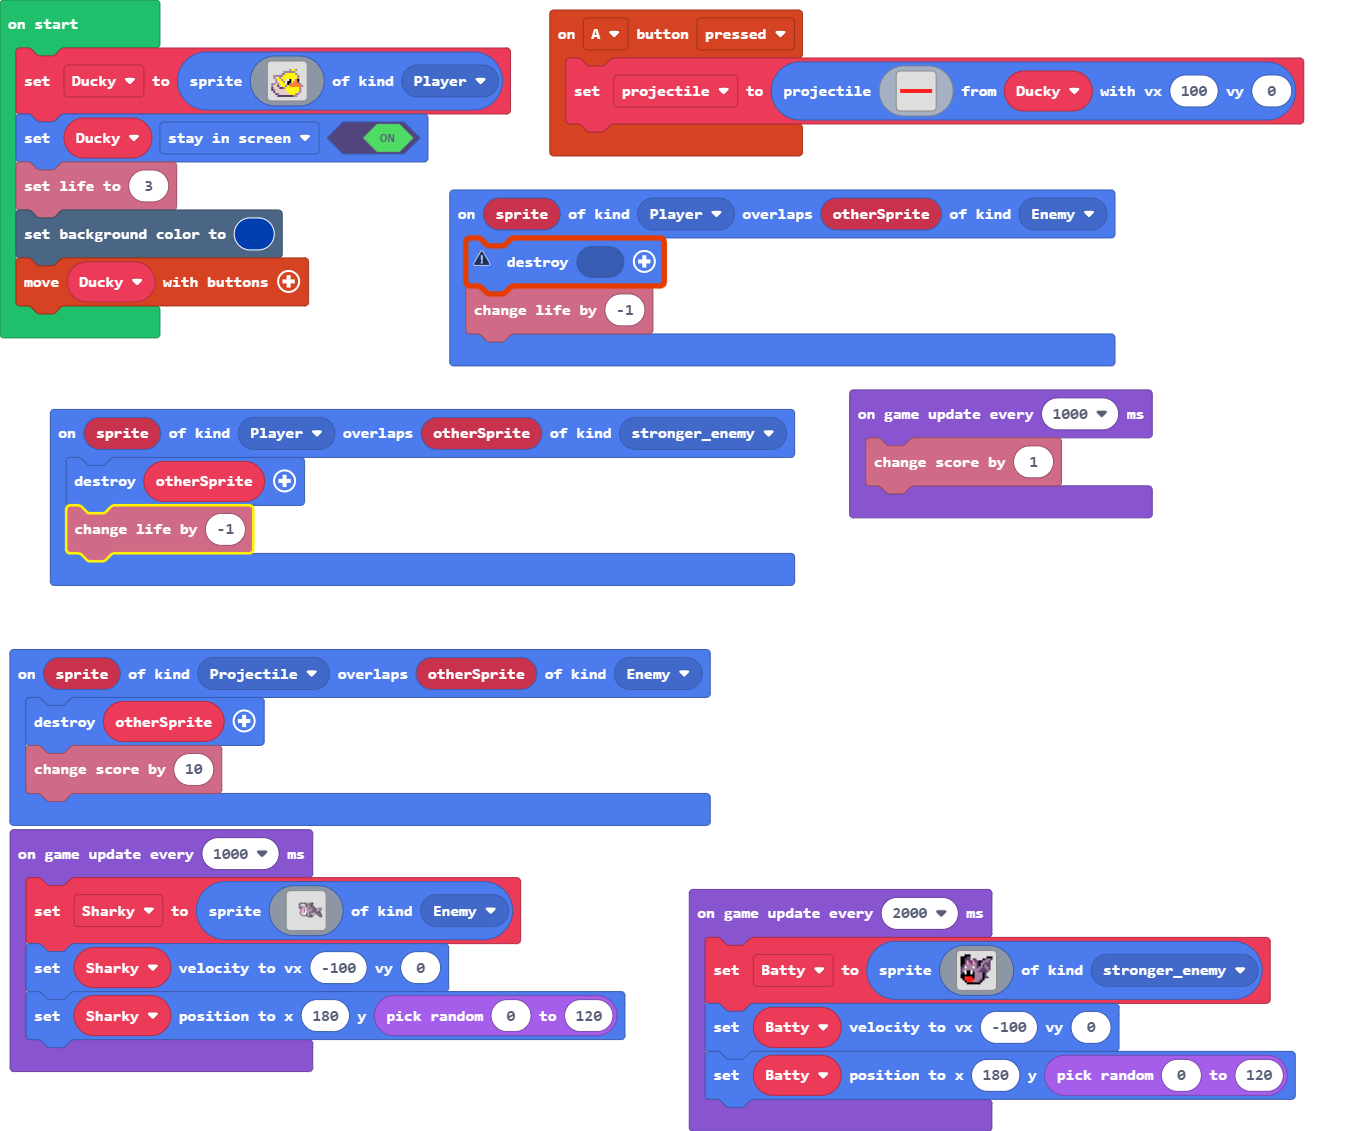
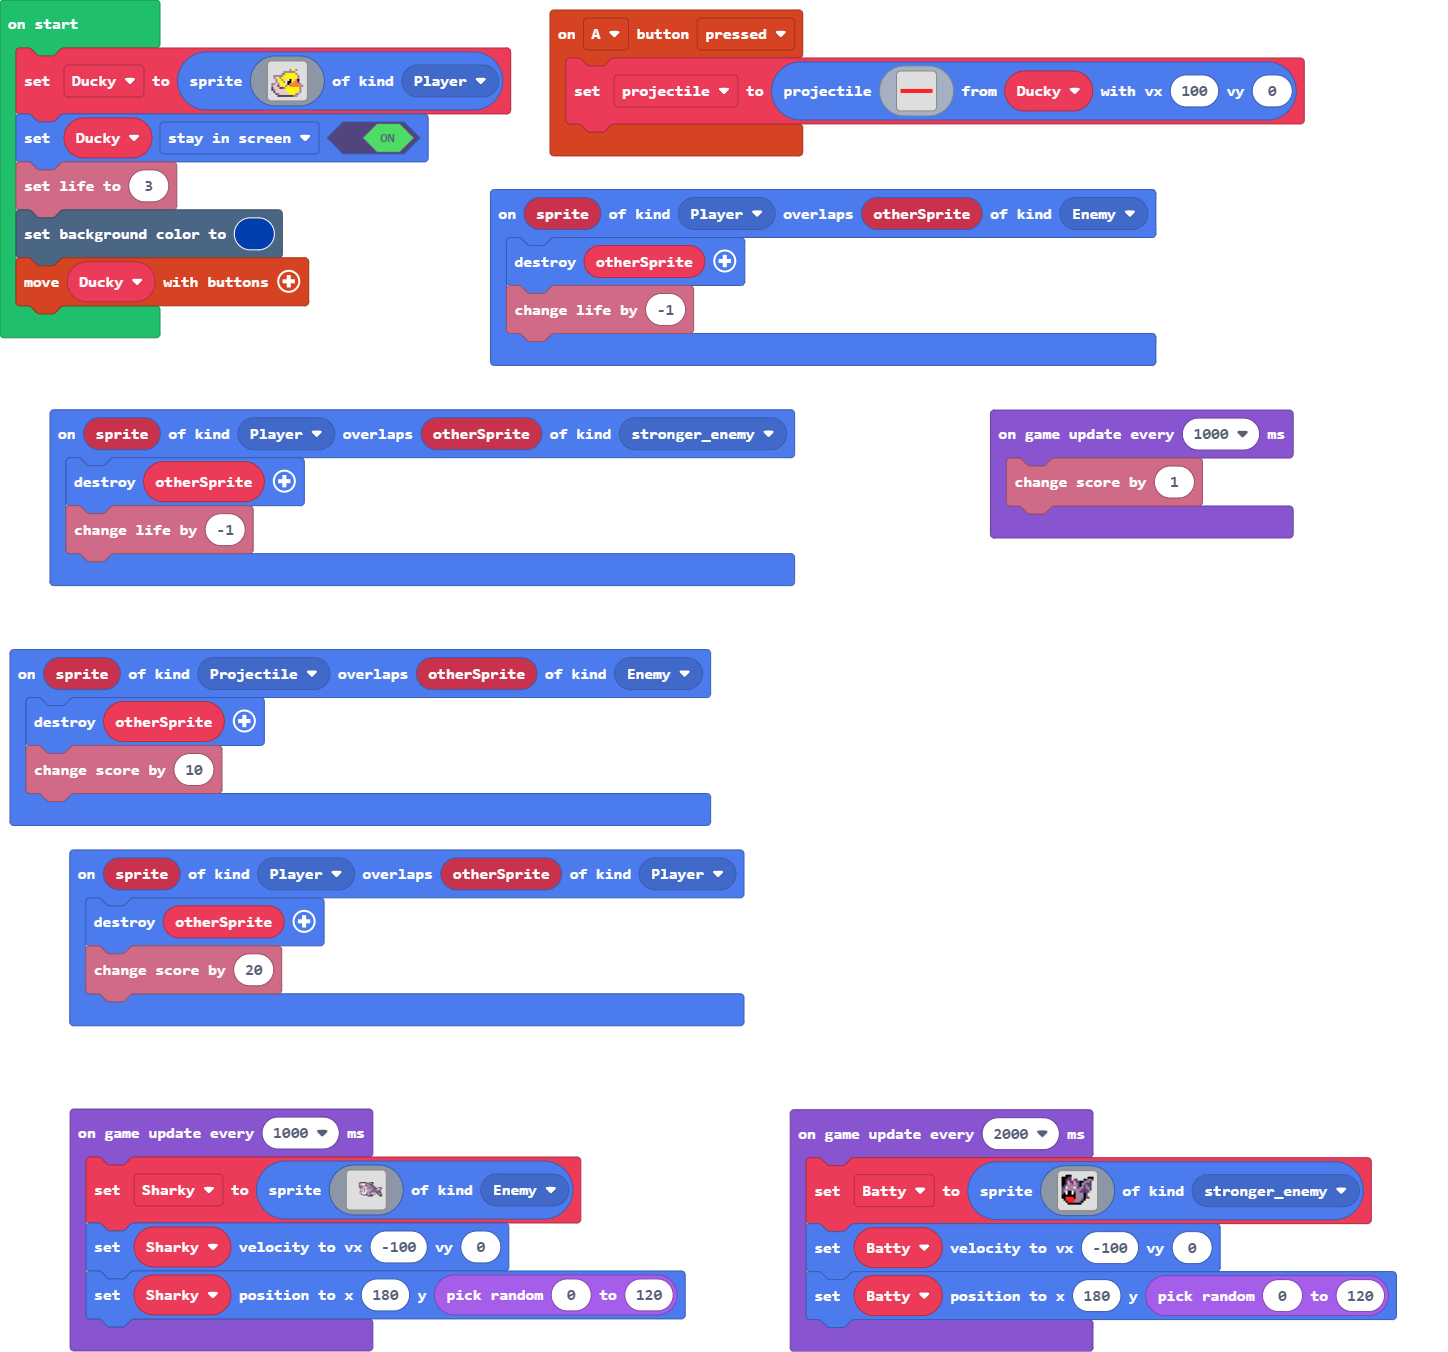
Update 1.2

diff --git a/main.ts b/main.ts
@@ -25,12 +25,16 @@ controller.A.onEvent(ControllerButtonEvent.Pressed, function () {
         . . . . . . . . . . . . . . . . 
         `, Ducky, 100, 0)
 })
+sprites.onOverlap(SpriteKind.Player, SpriteKind.Player, function (sprite, otherSprite) {
+    otherSprite.destroy()
+    info.changeScoreBy(20)
+})
 sprites.onOverlap(SpriteKind.Projectile, SpriteKind.Enemy, function (sprite, otherSprite) {
     otherSprite.destroy()
     info.changeScoreBy(10)
 })
 sprites.onOverlap(SpriteKind.Player, SpriteKind.Enemy, function (sprite, otherSprite) {
-    null.destroy()
+    otherSprite.destroy()
     info.changeLifeBy(-1)
 })
 let Sharky: Sprite = null
